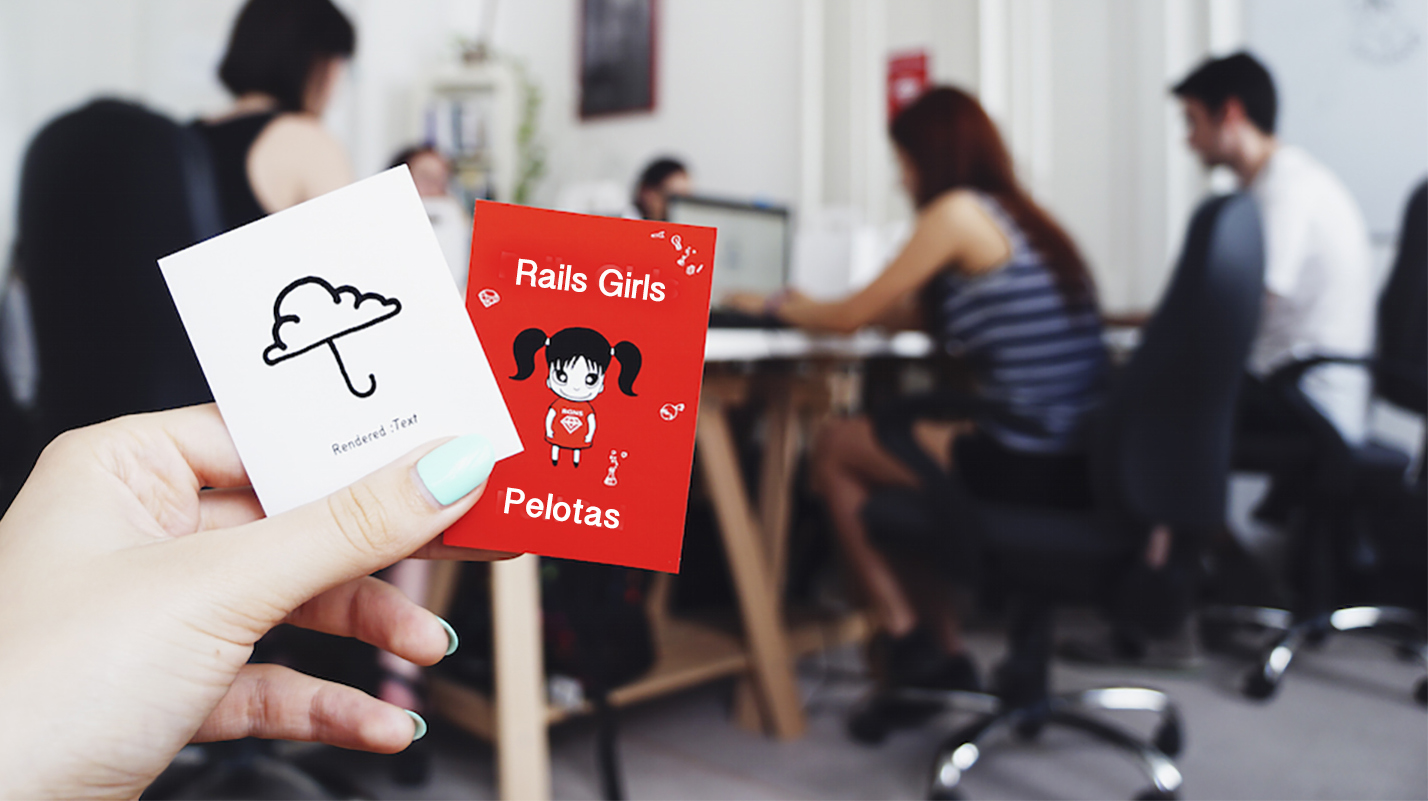
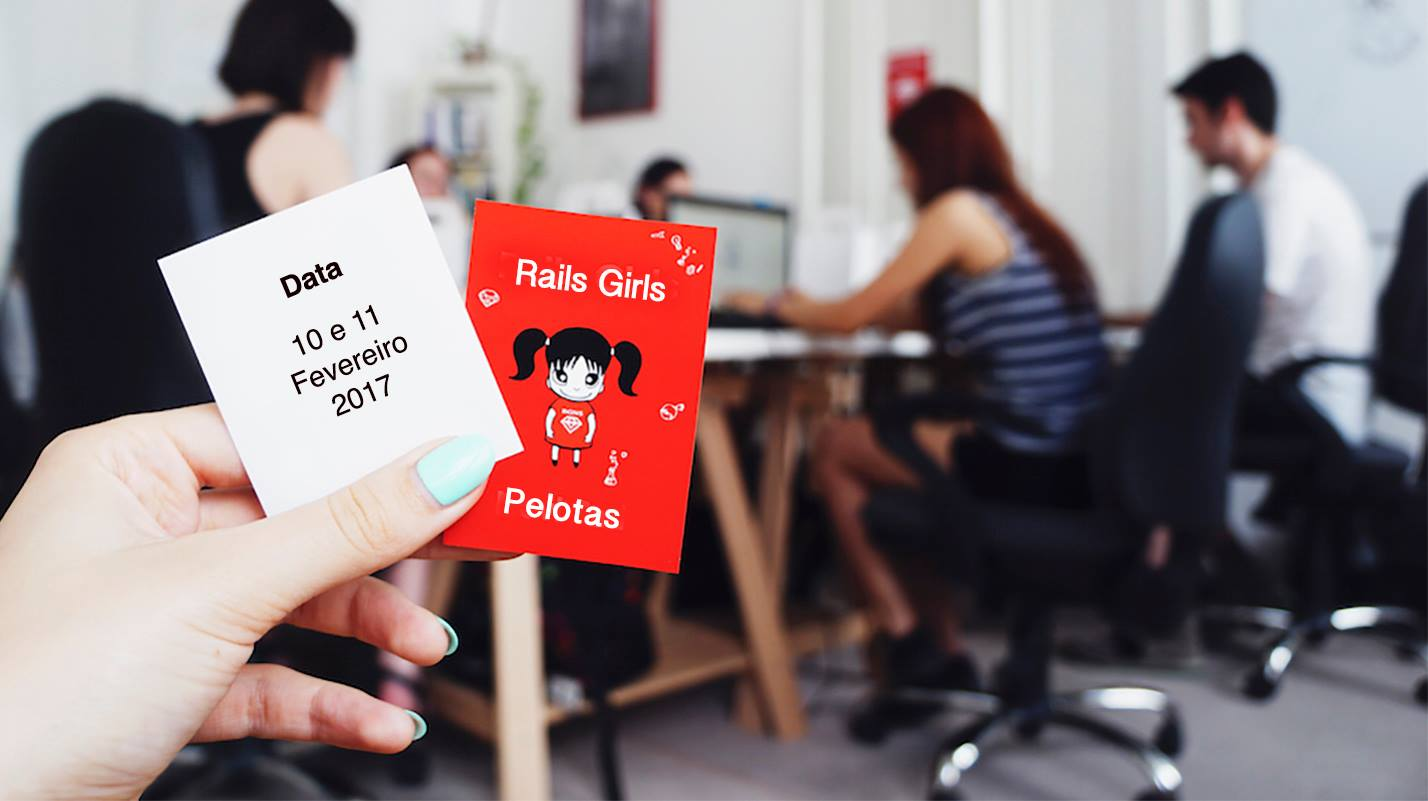
Pelotas: small changes

diff --git a/pelotas.html b/pelotas.html
@@ -72,7 +72,7 @@
         opacity: .7;
       }
       .helsinki_header_content {
-        background-color: rgba(0, 0, 0, 0.38);
+        background-color: rgba(0, 0, 0, 0.03);
         top: 0;
       }
       .coaches .omega{
@@ -154,8 +154,7 @@
          
         <p>Sabia que você é capaz de criar um software, uma aplicação ou um programa de computador como, por exemplo, o Facebook? Não faz ideia de como? Nós iremos te apresentar a este mundo mágico da programação, onde você escreve um texto e seu computador entende e faz tudo o que você quiser e puder imaginar! :)</p>
         <p>Curta nossa página no <a href="https://www.facebook.com/railsgirlspelotas/">Facebook</a> e fique por dentro das novidades! </p>
-        <p><h5>O evento ocorrerá nos dias <strong>10 e 11 de fevereiro de 2017.</strong> As incrições abrirão dia <strong>18 de dezembro.</strong><h5>
-        </p>
+        
       </div>
       <div class="grid_6" style="tex-align: center">
         
